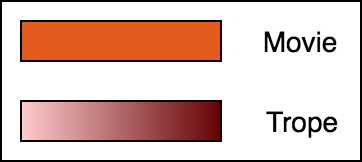
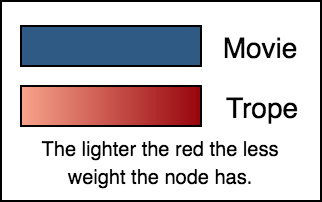
Added links to data files and updated legend.

diff --git a/eighties.html b/eighties.html
@@ -62,10 +62,20 @@
           Above is a graph of the horror movies and horror movie tropes
           that relate to the top 50 movies released between 1980 - 1989.
           This decade shows the prominence of the "Final Girl" trope, which
-          is featured in movies such as "Friday the 13th", the 11th 
-          best-selling movie in the decade. We also see certain franchises 
-          rise to popularity, such as the "Nightmare on Elm Street" franchise, 
-          which released its first five movies in the decade. 
+          is featured in movies such as "Friday the 13th", the 11th
+          best-selling movie in the decade. We also see certain franchises
+          rise to popularity, such as the "Nightmare on Elm Street" franchise,
+          which released its first five movies in the decade.
+        </p>
+        <hr>
+        <p>Eighties graph
+          <a href="https://github.com/acpaquette/networks-sp/blob/master/tropes/eighties_graph.json">json file.</a>
+        </p>
+        <p>Eighties IMDB movie ratings
+          <a href="https://github.com/acpaquette/networks-sp/blob/master/tropes/eighties/movie_list.json">json file.</a>
+        </p>
+        <p>Eighties movie tropes per movie
+          <a href="https://github.com/acpaquette/networks-sp/blob/master/tropes/eighties/">json file.</a>
         </p>
       </div>
     </div>

diff --git a/seventies.html b/seventies.html
@@ -61,10 +61,20 @@
           Above is a graph of the horror movies and horror movie tropes
           that relate to the top 50 movies released between 1970 - 1979.
           Currently, due to IMDB not having records for the gross earnings of the
-          top 37 - 50, we were only able to get data on the first 36 of these movies. 
+          top 37 - 50, we were only able to get data on the first 36 of these movies.
           While this is a limited data set compared to the total number we were hoping to
           look at, this era helps to define what this graph model looks like and provides
           information on important and influential tropes from the beginning of horror films.
+        </p>
+        <hr>
+        <p>Seventies graph
+          <a href="https://github.com/acpaquette/networks-sp/blob/master/tropes/seventies_graph.json">json file.</a>
+        </p>
+        <p>Seventies IMDB movie ratings
+          <a href="https://github.com/acpaquette/networks-sp/blob/master/tropes/seventies/movie_list.json">json file.</a>
+        </p>
+        <p>Seventies movie tropes per movie
+          <a href="https://github.com/acpaquette/networks-sp/blob/master/tropes/seventies/">json file.</a>
         </p>
       </div>
     </div>

diff --git a/nineties.html b/nineties.html
@@ -63,9 +63,19 @@
           The top movie from this decade was "The Blair Witch Project",
           which shocked audiences with new marketing strategies that had
           the public wondering if the movies was real or not. The "Body
-          Horror" trope is the most popular in this decade, as special 
+          Horror" trope is the most popular in this decade, as special
           effects become more realistic, and slasher movies overwhelmed
           the genre.
+        </p>
+        <hr>
+        <p>Nineties graph
+          <a href="https://github.com/acpaquette/networks-sp/blob/master/tropes/nineties_graph.json">json file.</a>
+        </p>
+        <p>Nineties IMDB movie ratings
+          <a href="https://github.com/acpaquette/networks-sp/blob/master/tropes/nineties/movie_list.json">json file.</a>
+        </p>
+        <p>Nineties movie tropes per movie
+          <a href="https://github.com/acpaquette/networks-sp/blob/master/tropes/nineties/">json file.</a>
         </p>
       </div>
     </div>

diff --git a/javascript/graph.js b/javascript/graph.js
@@ -60,6 +60,7 @@ function generate_graph(json_file) {
       nodeAttr: {
           r: 8,
           title: function(d) {return d.data.id;},
+          label: function(d) {return d.data.id;},
           id: function(d) {
               return 'node-' + d.node; // assign unique ID
           }
@@ -70,7 +71,7 @@ function generate_graph(json_file) {
               return color(d.data.weight / maxWeight)
             }
             else {
-              return '#e65c00';
+              return '#2d5986';
             }
           },
           stroke: 'none'
@@ -95,7 +96,7 @@ function generate_graph(json_file) {
                   nodeColor = color(d.data.weight / maxWeight)
                 }
                 else {
-                  nodeColor = '#e65c00';
+                  nodeColor = '#2d5986';
                 }
               }
               d.data.color = nodeColor;

diff --git a/twothousands.html b/twothousands.html
@@ -69,6 +69,16 @@
           the action and horror genres, leaving movies like "I Am Legend"
           at the top of the horror charts.
         </p>
+        <hr>
+        <p>Two Thousands graph
+          <a href="https://github.com/acpaquette/networks-sp/blob/master/tropes/twothousands_graph.json">json file.</a>
+        </p>
+        <p>Two Thousands IMDB movie ratings
+          <a href="https://github.com/acpaquette/networks-sp/blob/master/tropes/twothousands/movie_list.json">json file.</a>
+        </p>
+        <p>Two Thousands movie tropes per movie
+          <a href="https://github.com/acpaquette/networks-sp/blob/master/tropes/twothousands/">json file.</a>
+        </p>
       </div>
     </div>
     <script>

diff --git a/twentytens.html b/twentytens.html
@@ -66,6 +66,16 @@
           the "Jump Scare" trope also lept up to second place in the
           genre.
         </p>
+        <hr>
+        <p>Twenty Tens graph
+          <a href="https://github.com/acpaquette/networks-sp/blob/master/tropes/twentytens_graph.json">json file.</a>
+        </p>
+        <p>Twenty Tens IMDB movie ratings
+          <a href="https://github.com/acpaquette/networks-sp/blob/master/tropes/twentytens/movie_list.json">json file.</a>
+        </p>
+        <p>Twenty Tens movie tropes per movie
+          <a href="https://github.com/acpaquette/networks-sp/blob/master/tropes/twentytens/">json file.</a>
+        </p>
       </div>
     </div>
     <script>

diff --git a/tropes.css b/tropes.css
@@ -17,13 +17,11 @@
 {
   position: absolute;
   right: 12%;
-  top: 117%;
+  top: 121%;
 }
 
 #legend_graphic
 {
-  /* 50 + 30 + 1 */
-  height: 81px;
-  /* 150 + 30 + 1 */
-  width: 181px;
+  height: 101px;
+  width: 161px;
 }
